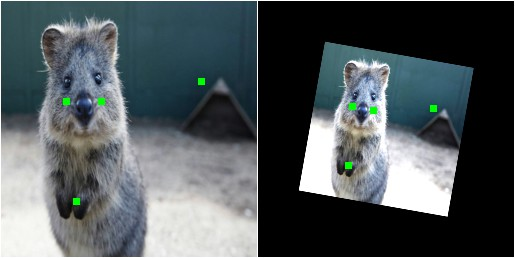
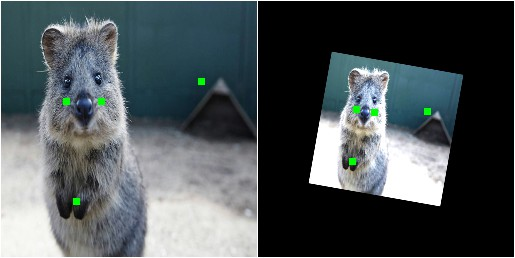
Update keypoints docs to newest lib version

diff --git a/generate_documentation_images.py b/generate_documentation_images.py
@@ -390,16 +390,18 @@ def chapter_examples_keypoints():
 
 def chapter_examples_keypoints_simple():
     import imgaug as ia
-    from imgaug import augmenters as iaa
+    import imgaug.augmenters as iaa
+    from imgaug.augmentables import Keypoint, KeypointsOnImage
+
 
     ia.seed(1)
 
     image = ia.quokka(size=(256, 256))
-    keypoints = ia.KeypointsOnImage([
-        ia.Keypoint(x=65, y=100),
-        ia.Keypoint(x=75, y=200),
-        ia.Keypoint(x=100, y=100),
-        ia.Keypoint(x=200, y=80)
+    kps = KeypointsOnImage([
+        Keypoint(x=65, y=100),
+        Keypoint(x=75, y=200),
+        Keypoint(x=100, y=100),
+        Keypoint(x=200, y=80)
     ], shape=image.shape)
 
     seq = iaa.Sequential([
@@ -410,28 +412,21 @@ def chapter_examples_keypoints_simple():
         ) # rotate by exactly 10deg and scale to 50-70%, affects keypoints
     ])
 
-    # Make our sequence deterministic.
-    # We can now apply it to the image and then to the keypoints and it will
-    # lead to the same augmentations.
-    # IMPORTANT: Call this once PER BATCH, otherwise you will always get the
-    # exactly same augmentations for every batch!
-    seq_det = seq.to_deterministic()
-
-    # augment keypoints and images
-    image_aug = seq_det.augment_images([image])[0]
-    keypoints_aug = seq_det.augment_keypoints([keypoints])[0]
+    # Augment keypoints and images.
+    image_aug, kps_aug = seq(image=image, keypoints=kps)
 
     # print coordinates before/after augmentation (see below)
-    for i in range(len(keypoints.keypoints)):
-        before = keypoints.keypoints[i]
-        after = keypoints_aug.keypoints[i]
-        print("Keypoint %d: (%d, %d) -> (%d, %d)" % (
+    # use after.x_int and after.y_int to get rounded integer coordinates
+    for i in range(len(kps.keypoints)):
+        before = kps.keypoints[i]
+        after = kps_aug.keypoints[i]
+        print("Keypoint %d: (%.8f, %.8f) -> (%.8f, %.8f)" % (
             i, before.x, before.y, after.x, after.y)
         )
 
     # image with keypoints before/after augmentation (shown below)
-    image_before = keypoints.draw_on_image(image, size=7)
-    image_after = keypoints_aug.draw_on_image(image_aug, size=7)
+    image_before = kps.draw_on_image(image, size=7)
+    image_after = kps_aug.draw_on_image(image_aug, size=7)
 
     # ------------
 

diff --git a/source/examples_keypoints.rst b/source/examples_keypoints.rst
@@ -7,6 +7,14 @@ E.g. if an image is rotated during augmentation, the library can also rotate
 all landmarks correspondingly.
 
 
+Notebook
+--------
+
+A jupyter notebook for keypoint augmentation is available at
+:ref:`page_jupyter_notebooks`. The notebooks are usually more up to date
+and contain more examples than the ReadTheDocs documentation.
+
+
 A simple example
 ----------------
 
@@ -19,16 +27,18 @@ on it).
 ::
 
     import imgaug as ia
-    from imgaug import augmenters as iaa
+    import imgaug.augmenters as iaa
+    from imgaug.augmentables import Keypoint, KeypointsOnImage
+
 
     ia.seed(1)
 
     image = ia.quokka(size=(256, 256))
-    keypoints = ia.KeypointsOnImage([
-        ia.Keypoint(x=65, y=100),
-        ia.Keypoint(x=75, y=200),
-        ia.Keypoint(x=100, y=100),
-        ia.Keypoint(x=200, y=80)
+    kps = KeypointsOnImage([
+        Keypoint(x=65, y=100),
+        Keypoint(x=75, y=200),
+        Keypoint(x=100, y=100),
+        Keypoint(x=200, y=80)
     ], shape=image.shape)
 
     seq = iaa.Sequential([
@@ -39,40 +49,28 @@ on it).
         ) # rotate by exactly 10deg and scale to 50-70%, affects keypoints
     ])
 
-    # Make our sequence deterministic.
-    # We can now apply it to the image and then to the keypoints and it will
-    # lead to the same augmentations.
-    # IMPORTANT: Call this once PER BATCH, otherwise you will always get the
-    # exactly same augmentations for every batch!
-    seq_det = seq.to_deterministic()
-
     # Augment keypoints and images.
-    # As we only have one image and list of keypoints, we use
-    # [image] and [keypoints] to turn both into lists (batches) for the
-    # functions and then [0] to reverse that. In a real experiment, your
-    # variables would likely already be lists.
-    image_aug = seq_det.augment_images([image])[0]
-    keypoints_aug = seq_det.augment_keypoints([keypoints])[0]
+    image_aug, kps_aug = seq(image=image, keypoints=kps)
 
     # print coordinates before/after augmentation (see below)
     # use after.x_int and after.y_int to get rounded integer coordinates
-    for i in range(len(keypoints.keypoints)):
-        before = keypoints.keypoints[i]
-        after = keypoints_aug.keypoints[i]
+    for i in range(len(kps.keypoints)):
+        before = kps.keypoints[i]
+        after = kps_aug.keypoints[i]
         print("Keypoint %d: (%.8f, %.8f) -> (%.8f, %.8f)" % (
             i, before.x, before.y, after.x, after.y)
         )
 
     # image with keypoints before/after augmentation (shown below)
-    image_before = keypoints.draw_on_image(image, size=7)
-    image_after = keypoints_aug.draw_on_image(image_aug, size=7)
+    image_before = kps.draw_on_image(image, size=7)
+    image_after = kps_aug.draw_on_image(image_aug, size=7)
 
 Console output of the example::
 
-    Keypoint 0: (65.00000000, 100.00000000) -> (94.11840007, 105.19555403)
-    Keypoint 1: (75.00000000, 200.00000000) -> (89.69884728, 164.11942850)
-    Keypoint 2: (100.00000000, 100.00000000) -> (114.38441167, 108.76899867)
-    Keypoint 3: (200.00000000, 80.00000000) -> (174.32927032, 107.39826243)
+    Keypoint 0: (65.00000000, 100.00000000) -> (97.86113503, 107.69632182)
+    Keypoint 1: (75.00000000, 200.00000000) -> (93.93710117, 160.01366917)
+    Keypoint 2: (100.00000000, 100.00000000) -> (115.85492750, 110.86911292)
+    Keypoint 3: (200.00000000, 80.00000000) -> (169.07878659, 109.65206321)
 
 .. figure:: ../images/examples_keypoints/simple.jpg
     :alt: Simple keypoint augmentation example

diff --git a/source/examples_bounding_boxes.rst b/source/examples_bounding_boxes.rst
@@ -21,7 +21,7 @@ Notebook
 
 A jupyter notebook for bounding box augmentation is available at
 :ref:`page_jupyter_notebooks`. The notebooks are usually more up to date
-than the ReadTheDocs documentation.
+and contain more examples than the ReadTheDocs documentation.
 
 
 A simple example
